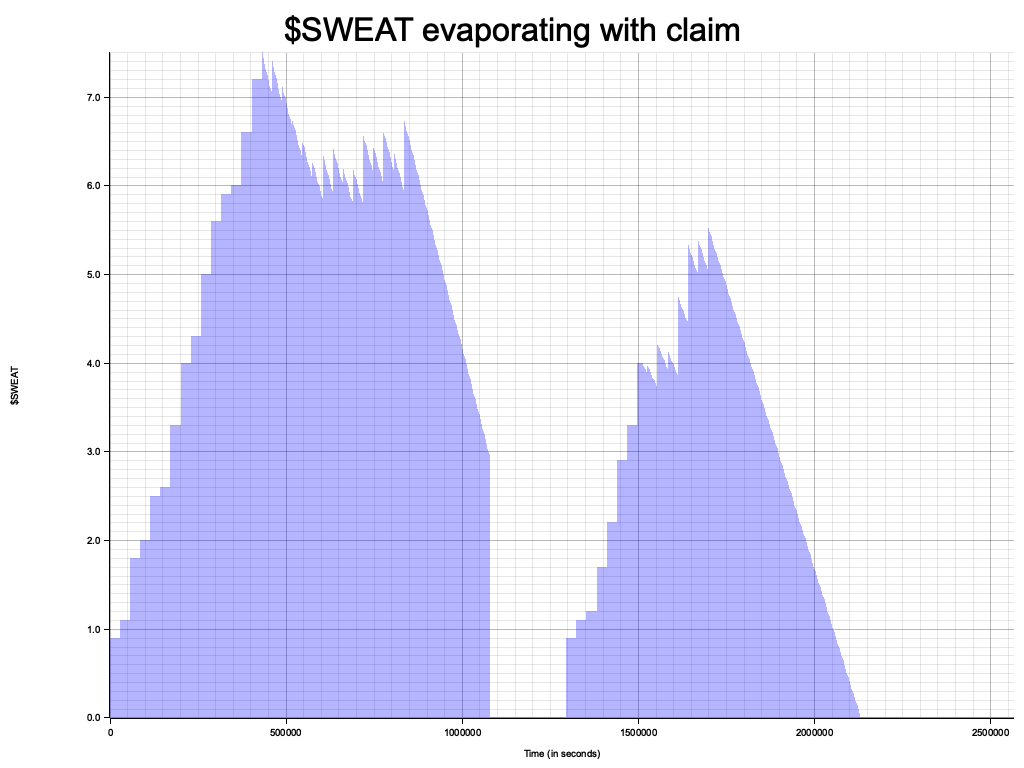
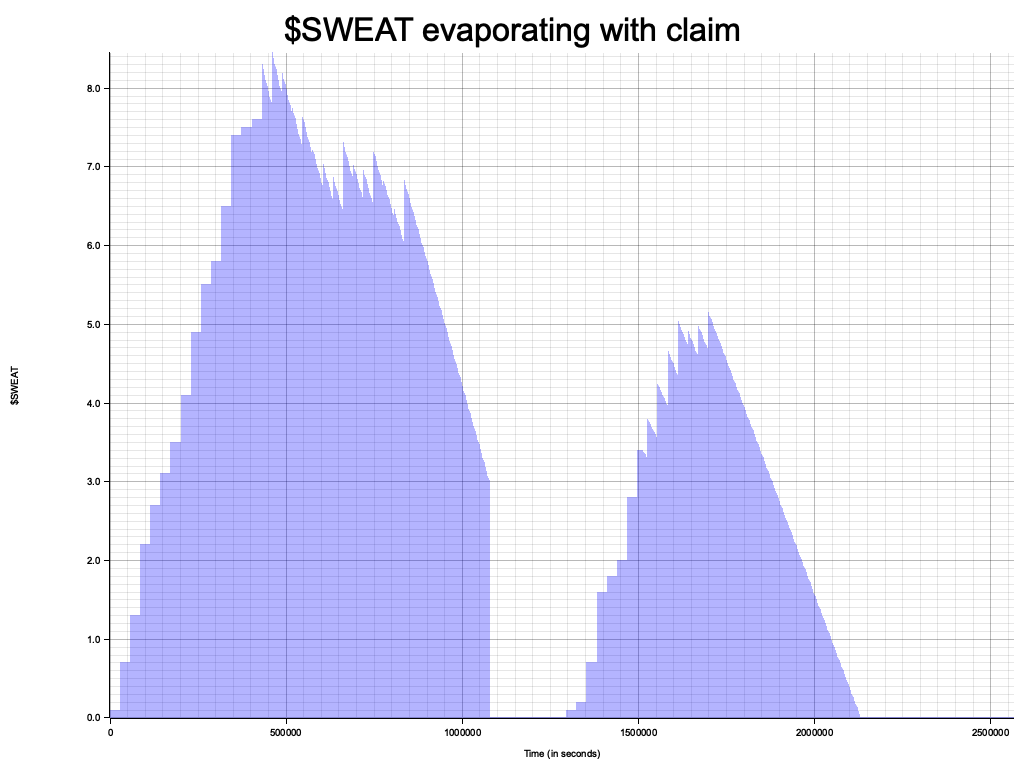
test: add tests for burn amount calculation

Changed region(s): [[0.0938, 0.0625, 1.0, 0.9375]]

diff --git a/contract/src/common/tests.rs b/contract/src/common/tests.rs
@@ -261,4 +261,44 @@ mod account_record_tests {
         // Precise value is 1_102_292_768_959,4356261023
         assert_eq!(1_102_292_768_960, account.get_burn_rate(burn_period));
     }
+
+    #[test]
+    fn test_balance_to_burn_when_balance_doesnt_evaporate() {
+        let burn_period = 30 * 24 * 60 * 60; // 30 days
+
+        let mut account = AccountRecord::new(0);
+        account.balance = 2 * 10u128.pow(18);
+        account.claim_period_refreshed_at = burn_period / 2;
+
+        let balance_to_burn = account.get_balance_to_burn(burn_period, 0);
+        assert_eq!(0, balance_to_burn);
+    }
+
+    #[test]
+    fn test_balance_to_burn_when_balance_evaporates() {
+        let burn_period = 1_000;
+
+        let mut account = AccountRecord::new(0);
+        // User claimed their funds
+        account.claim_period_refreshed_at = 1_713_880_390;
+        account.burn_since = account.claim_period_refreshed_at;
+        // And then earned some $SWEAT
+        account.balance = 1_000;
+
+        let claimable_window_start = 1_713_880_400; // 10 seconds after last claim
+        let balance_to_burn = account.get_balance_to_burn(burn_period, claimable_window_start);
+        assert_eq!(10, balance_to_burn);
+    }
+
+    #[test]
+    fn test_balance_to_burn_when_balance_evaporated_to_zer() {
+        let burn_period = 5 * 24 * 60 * 60; // 5 days
+
+        let mut account = AccountRecord::new(0);
+        account.balance = 5_000;
+
+        let claimable_window_start = 3 * burn_period; // 3 burn periods later
+        let balance_to_burn = account.get_balance_to_burn(burn_period, claimable_window_start);
+        assert_eq!(account.balance, balance_to_burn);
+    }
 }
